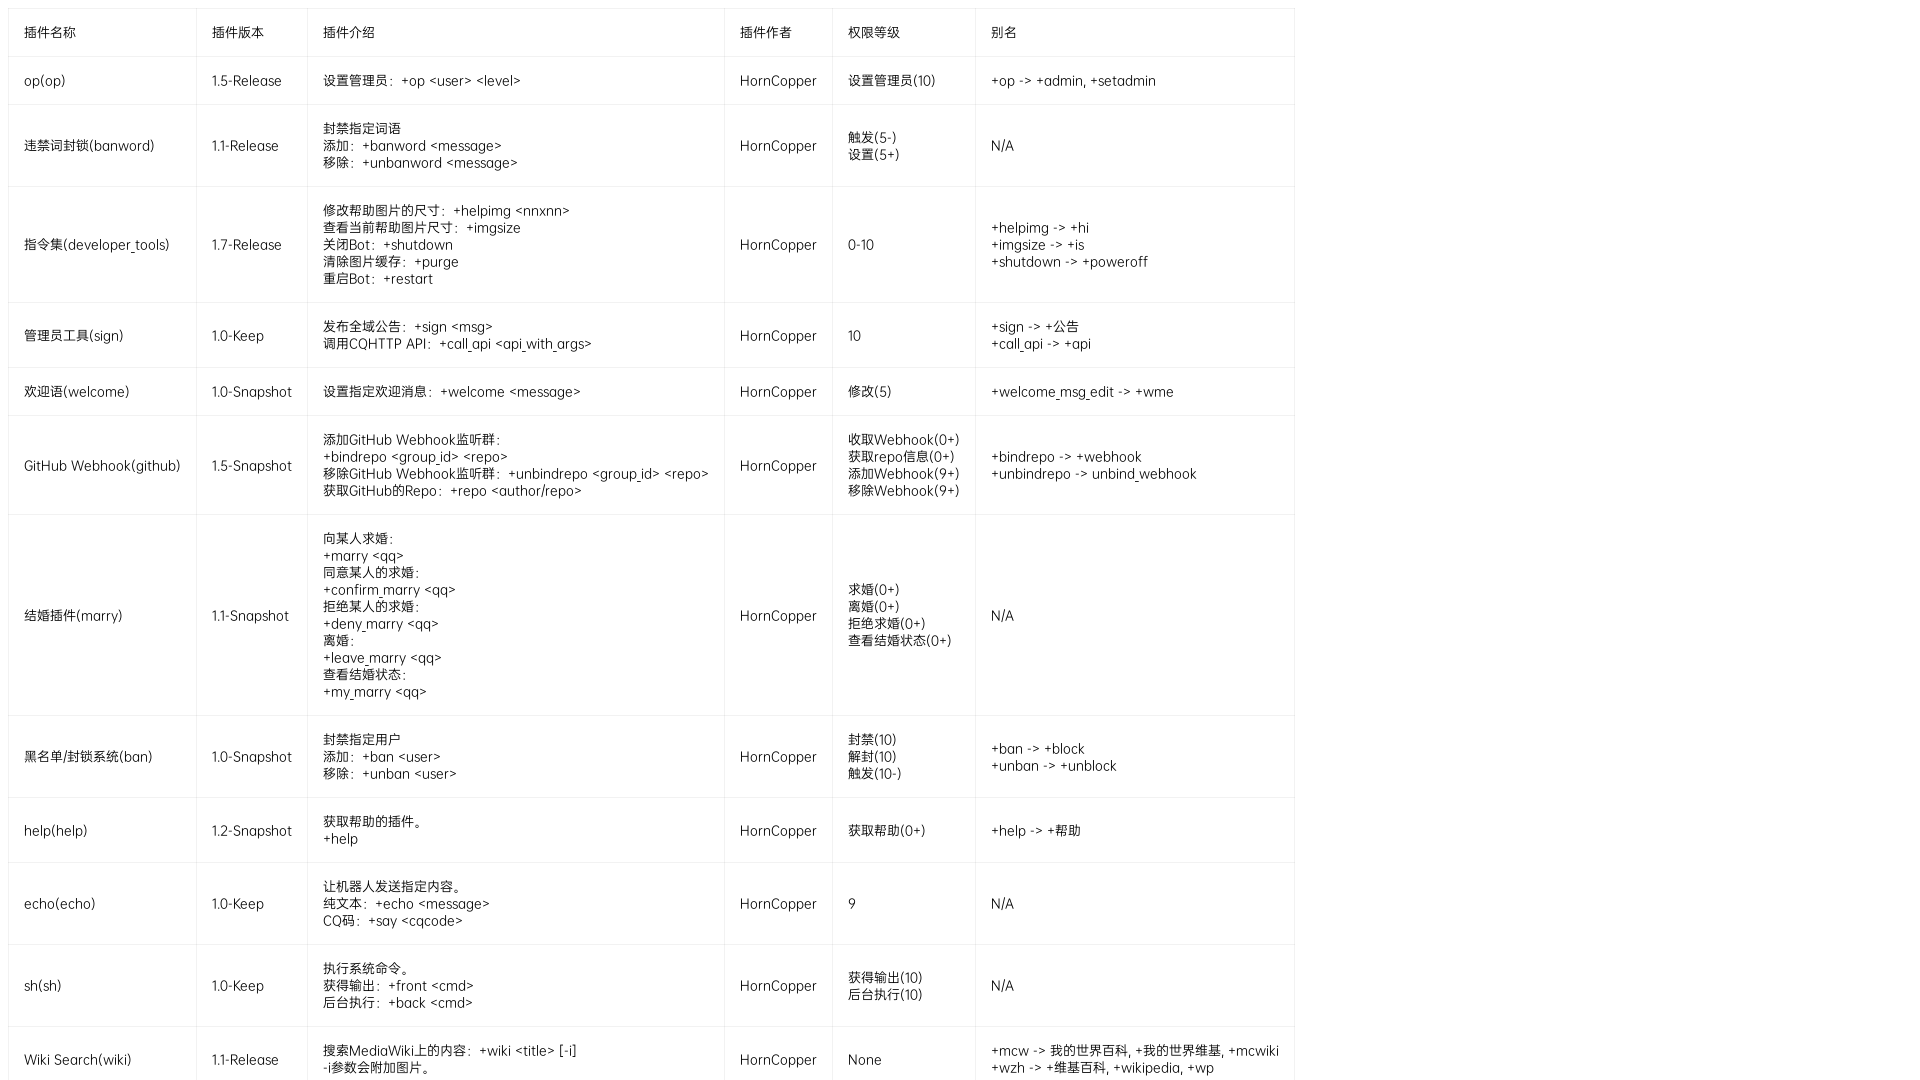
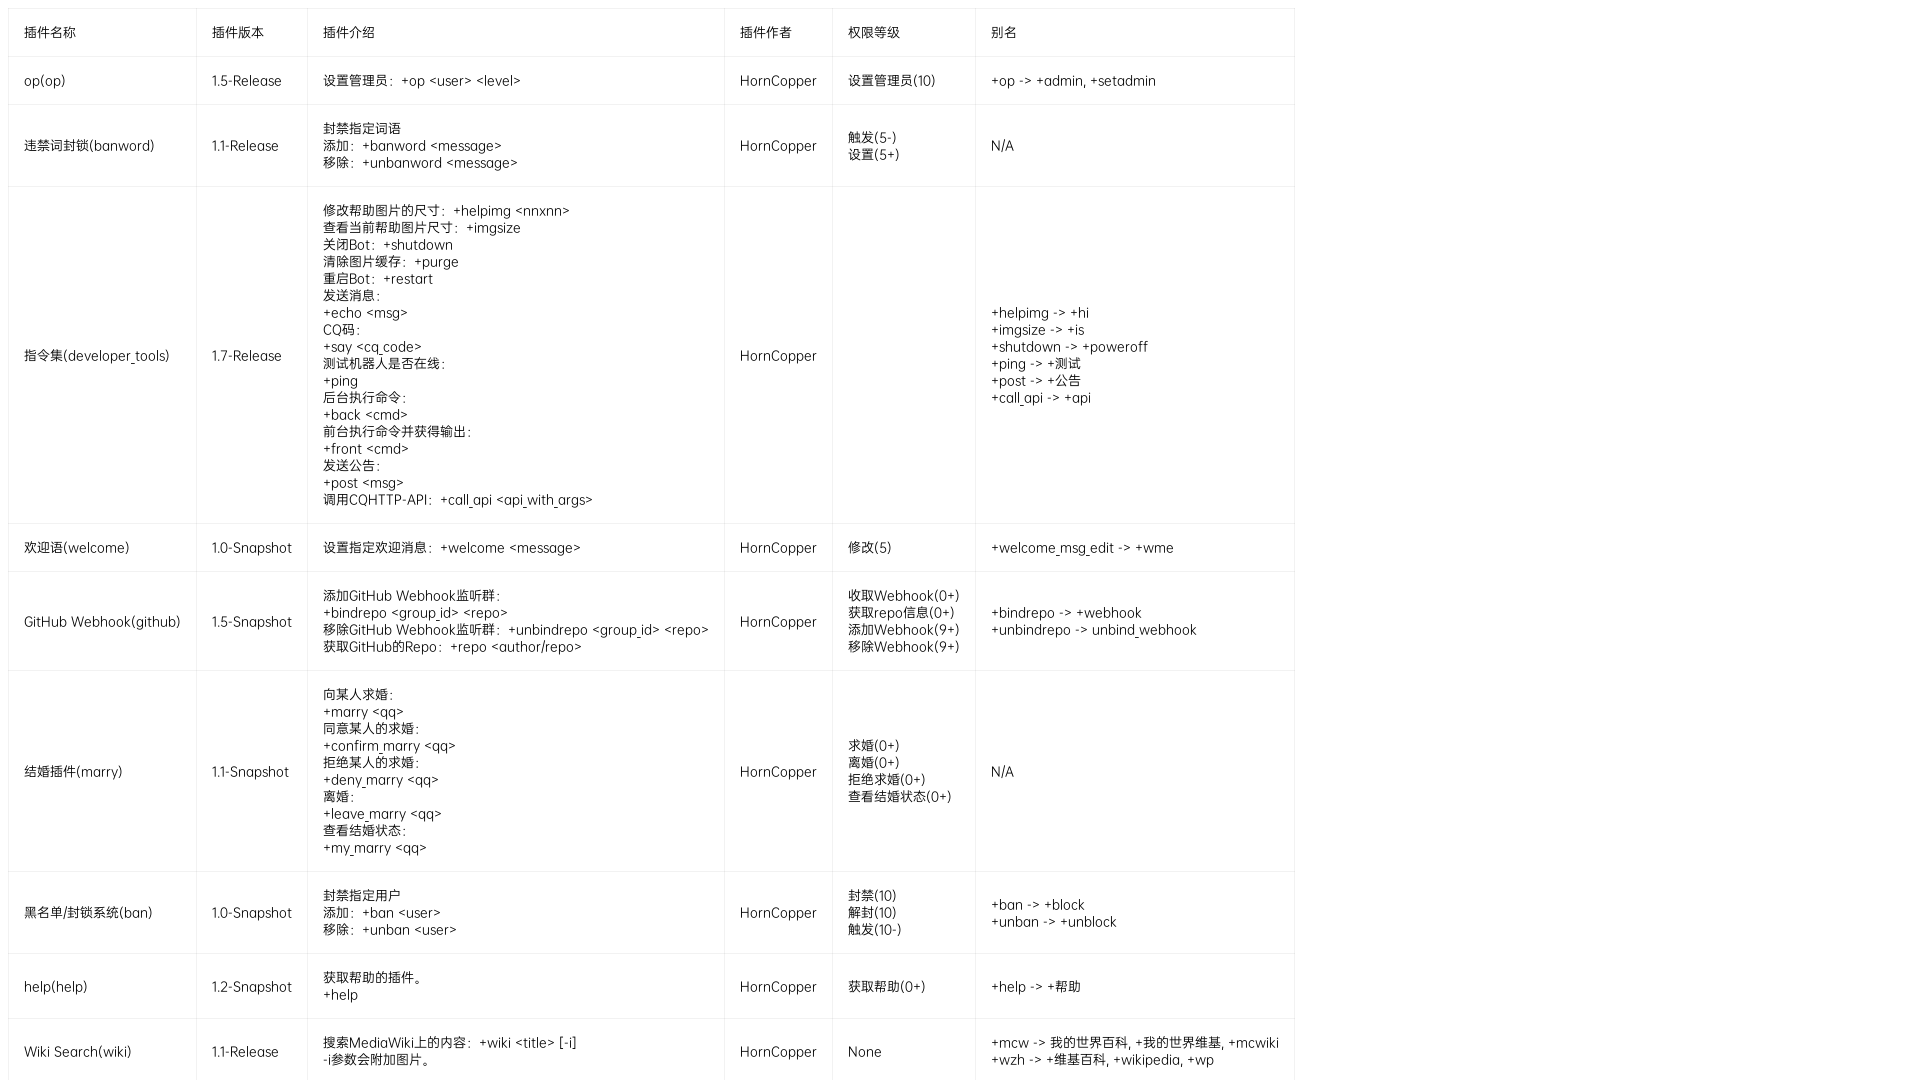
整合了一些插件，移除echo sign sh ping，全部整合至developer_toosl

diff --git a/src/plugins/help/help.html b/src/plugins/help/help.html
@@ -1,21 +1,17 @@
 <div style="font-family:Custom"><table>
 <thead>
-<tr><th>插件名称               </th><th>插件版本    </th><th>插件介绍                                                                                                                                              </th><th>插件作者  </th><th>权限等级                                                        </th><th>别名                                                                           </th></tr>
+<tr><th>插件名称               </th><th>插件版本    </th><th>插件介绍                                                                                                                                                                                                                                                                                                                               </th><th>插件作者  </th><th>权限等级                                                        </th><th>别名                                                                                                  </th></tr>
 </thead>
 <tbody>
-<tr><td>op(op)                 </td><td>1.5-Release </td><td>设置管理员：+op &lt;user&gt; &lt;level&gt;                                                                                                                        </td><td>HornCopper</td><td>设置管理员(10)                                                  </td><td>+op -&gt; +admin, +setadmin                                                       </td></tr>
-<tr><td>违禁词封锁(banword)    </td><td>1.1-Release </td><td>封禁指定词语<br>添加：+banword &lt;message&gt;<br>移除：+unbanword &lt;message&gt;                                                                                      </td><td>HornCopper</td><td>触发(5-)<br>设置(5+)                                               </td><td>N/A                                                                            </td></tr>
-<tr><td>指令集(developer_tools)</td><td>1.7-Release </td><td>修改帮助图片的尺寸：+helpimg &lt;nnxnn&gt;<br>查看当前帮助图片尺寸：+imgsize<br>关闭Bot：+shutdown<br>清除图片缓存：+purge<br>重启Bot：+restart                         </td><td>HornCopper</td><td>0-10                                                            </td><td>+helpimg -&gt; +hi<br>+imgsize -&gt; +is<br>+shutdown -&gt; +poweroff                         </td></tr>
-<tr><td>管理员工具(sign)       </td><td>1.0-Keep    </td><td>发布全域公告：+sign &lt;msg&gt;<br>调用CQHTTP API：+call_api &lt;api_with_args&gt;                                                                                   </td><td>HornCopper</td><td>10                                                              </td><td>+sign -&gt; +公告<br>+call_api -&gt; +api                                               </td></tr>
-<tr><td>欢迎语(welcome)        </td><td>1.0-Snapshot</td><td>设置指定欢迎消息：+welcome &lt;message&gt;                                                                                                                  </td><td>HornCopper</td><td>修改(5)                                                         </td><td>+welcome_msg_edit -&gt; +wme                                                      </td></tr>
-<tr><td>GitHub Webhook(github) </td><td>1.5-Snapshot</td><td>添加GitHub Webhook监听群：<br>+bindrepo &lt;group_id&gt; &lt;repo&gt;<br>移除GitHub Webhook监听群：+unbindrepo &lt;group_id&gt; &lt;repo&gt;<br>获取GitHub的Repo：+repo &lt;author/repo&gt;  </td><td>HornCopper</td><td>收取Webhook(0+)<br>获取repo信息(0+)<br>添加Webhook(9+)<br>移除Webhook(9+)</td><td>+bindrepo -&gt; +webhook<br>+unbindrepo -&gt; unbind_webhook                            </td></tr>
-<tr><td>结婚插件(marry)        </td><td>1.1-Snapshot</td><td>向某人求婚：<br>+marry &lt;qq&gt;<br>同意某人的求婚：<br>+confirm_marry &lt;qq&gt;<br>拒绝某人的求婚：<br>+deny_marry &lt;qq&gt;<br>离婚：<br>+leave_marry &lt;qq&gt;<br>查看结婚状态：<br>+my_marry &lt;qq&gt;</td><td>HornCopper</td><td>求婚(0+)<br>离婚(0+)<br>拒绝求婚(0+)<br>查看结婚状态(0+)                 </td><td>N/A                                                                            </td></tr>
-<tr><td>黑名单/封锁系统(ban)   </td><td>1.0-Snapshot</td><td>封禁指定用户<br>添加：+ban &lt;user&gt;<br>移除：+unban &lt;user&gt;                                                                                                    </td><td>HornCopper</td><td>封禁(10)<br>解封(10)<br>触发(10-)                                     </td><td>+ban -&gt; +block<br>+unban -&gt; +unblock                                              </td></tr>
-<tr><td>help(help)             </td><td>1.2-Snapshot</td><td>获取帮助的插件。<br>+help                                                                                                                                </td><td>HornCopper</td><td>获取帮助(0+)                                                    </td><td>+help -&gt; +帮助                                                                 </td></tr>
-<tr><td>echo(echo)             </td><td>1.0-Keep    </td><td>让机器人发送指定内容。<br>纯文本：+echo &lt;message&gt;<br>CQ码：+say &lt;cqcode&gt;                                                                                    </td><td>HornCopper</td><td>9                                                               </td><td>N/A                                                                            </td></tr>
-<tr><td>sh(sh)                 </td><td>1.0-Keep    </td><td>执行系统命令。<br>获得输出：+front &lt;cmd&gt;<br>后台执行：+back &lt;cmd&gt;                                                                                           </td><td>HornCopper</td><td>获得输出(10)<br>后台执行(10)                                       </td><td>N/A                                                                            </td></tr>
-<tr><td>Wiki Search(wiki)      </td><td>1.1-Release </td><td>搜索MediaWiki上的内容：+wiki &lt;title&gt; [-i]<br>-i参数会附加图片。                                                                                          </td><td>HornCopper</td><td>None                                                            </td><td>+mcw -&gt; 我的世界百科, +我的世界维基, +mcwiki<br>+wzh -&gt; +维基百科, +wikipedia, +wp</td></tr>
-<tr><td>ping(ping)             </td><td>1.0-Keep    </td><td>测试机器人是否在线：<br>+ping                                                                                                                            </td><td>HornCopper</td><td>时间(0+)<br>占用(1+)                                               </td><td>+ping -&gt; +测试                                                                 </td></tr>
+<tr><td>op(op)                 </td><td>1.5-Release </td><td>设置管理员：+op &lt;user&gt; &lt;level&gt;                                                                                                                                                                                                                                                                                                         </td><td>HornCopper</td><td>设置管理员(10)                                                  </td><td>+op -&gt; +admin, +setadmin                                                                              </td></tr>
+<tr><td>违禁词封锁(banword)    </td><td>1.1-Release </td><td>封禁指定词语<br>添加：+banword &lt;message&gt;<br>移除：+unbanword &lt;message&gt;                                                                                                                                                                                                                                                                       </td><td>HornCopper</td><td>触发(5-)<br>设置(5+)                                               </td><td>N/A                                                                                                   </td></tr>
+<tr><td>指令集(developer_tools)</td><td>1.7-Release </td><td>修改帮助图片的尺寸：+helpimg &lt;nnxnn&gt;<br>查看当前帮助图片尺寸：+imgsize<br>关闭Bot：+shutdown<br>清除图片缓存：+purge<br>重启Bot：+restart<br>发送消息：<br>+echo &lt;msg&gt;<br>CQ码：<br>+say &lt;cq_code&gt;<br>测试机器人是否在线：<br>+ping<br>后台执行命令：<br>+back &lt;cmd&gt;<br>前台执行命令并获得输出：<br>+front &lt;cmd&gt;<br>发送公告：<br>+post &lt;msg&gt;<br>调用CQHTTP-API：+call_api &lt;api_with_args&gt;</td><td>HornCopper</td><td>                                                                </td><td>+helpimg -&gt; +hi<br>+imgsize -&gt; +is<br>+shutdown -&gt; +poweroff<br>+ping -&gt; +测试<br>+post -&gt; +公告<br>+call_api -&gt; +api</td></tr>
+<tr><td>欢迎语(welcome)        </td><td>1.0-Snapshot</td><td>设置指定欢迎消息：+welcome &lt;message&gt;                                                                                                                                                                                                                                                                                                   </td><td>HornCopper</td><td>修改(5)                                                         </td><td>+welcome_msg_edit -&gt; +wme                                                                             </td></tr>
+<tr><td>GitHub Webhook(github) </td><td>1.5-Snapshot</td><td>添加GitHub Webhook监听群：<br>+bindrepo &lt;group_id&gt; &lt;repo&gt;<br>移除GitHub Webhook监听群：+unbindrepo &lt;group_id&gt; &lt;repo&gt;<br>获取GitHub的Repo：+repo &lt;author/repo&gt;                                                                                                                                                                                   </td><td>HornCopper</td><td>收取Webhook(0+)<br>获取repo信息(0+)<br>添加Webhook(9+)<br>移除Webhook(9+)</td><td>+bindrepo -&gt; +webhook<br>+unbindrepo -&gt; unbind_webhook                                                   </td></tr>
+<tr><td>结婚插件(marry)        </td><td>1.1-Snapshot</td><td>向某人求婚：<br>+marry &lt;qq&gt;<br>同意某人的求婚：<br>+confirm_marry &lt;qq&gt;<br>拒绝某人的求婚：<br>+deny_marry &lt;qq&gt;<br>离婚：<br>+leave_marry &lt;qq&gt;<br>查看结婚状态：<br>+my_marry &lt;qq&gt;                                                                                                                                                                                 </td><td>HornCopper</td><td>求婚(0+)<br>离婚(0+)<br>拒绝求婚(0+)<br>查看结婚状态(0+)                 </td><td>N/A                                                                                                   </td></tr>
+<tr><td>黑名单/封锁系统(ban)   </td><td>1.0-Snapshot</td><td>封禁指定用户<br>添加：+ban &lt;user&gt;<br>移除：+unban &lt;user&gt;                                                                                                                                                                                                                                                                                     </td><td>HornCopper</td><td>封禁(10)<br>解封(10)<br>触发(10-)                                     </td><td>+ban -&gt; +block<br>+unban -&gt; +unblock                                                                     </td></tr>
+<tr><td>help(help)             </td><td>1.2-Snapshot</td><td>获取帮助的插件。<br>+help                                                                                                                                                                                                                                                                                                                 </td><td>HornCopper</td><td>获取帮助(0+)                                                    </td><td>+help -&gt; +帮助                                                                                        </td></tr>
+<tr><td>Wiki Search(wiki)      </td><td>1.1-Release </td><td>搜索MediaWiki上的内容：+wiki &lt;title&gt; [-i]<br>-i参数会附加图片。                                                                                                                                                                                                                                                                           </td><td>HornCopper</td><td>None                                                            </td><td>+mcw -&gt; 我的世界百科, +我的世界维基, +mcwiki<br>+wzh -&gt; +维基百科, +wikipedia, +wp                       </td></tr>
 </tbody>
 </table></div>
 <style>

diff --git a/src/plugins/developer_tools/__init__.py b/src/plugins/developer_tools/__init__.py
@@ -1,21 +1,17 @@
-import os
-import sys
-
+import os, sys, psutil, nonebot
 from nonebot import on_command
 from nonebot.adapters import Message
-from nonebot.adapters.onebot.v11 import Event, Bot
 from nonebot.params import CommandArg
-
+from typing import List
 from .example import status
-
-import nonebot
 TOOLS = nonebot.get_driver().config.tools_path
 sys.path.append(str(TOOLS))
 from permission import checker, error
 from file import read, write
 from config import Config
-
-status
+from http_ import http
+from functools import reduce
+from nonebot.adapters.onebot.v11 import Message, MessageSegment, unescape, Event, Bot
 
 helpimg = on_command("helpimg", aliases={"hi"}, priority=5)
 
@@ -76,3 +72,66 @@ async def _(event: Event):
             await restart.finish(error(5))
         await  restart.send("好啦，开始重启，整个过程需要些许时间，还请等我一下哦~")
         cache.write("status=\"OK\"")
+
+echo = on_command("echo",priority=5)
+@echo.handle()
+async def echo_(event: Event, args: Message = CommandArg()):
+    if checker(str(event.user_id),9) == False:
+        await echo.finish(error(9))
+    await echo.finish(args)
+say = on_command("say",priority=5)
+@say.handle()
+async def say_(event: Event, args: Message = CommandArg()): 
+    def _unescape(message: Message, segment: MessageSegment):
+        if segment.is_text():
+            return message.append(unescape(str(segment)))
+        return message.append(segment)
+    if checker(str(event.user_id),9) == False:
+        await say.finish(error(9))
+    message = reduce(_unescape, args, Message())
+    await say.finish(message)
+ping = on_command("ping", aliases={"测试"}, priority=5)
+@ping.handle()
+async def _(event: Event):
+    if block(str(event.user_id)):
+        return
+    if checker(str(event.user_id), 1) == False:
+        times = str("现在是" + time.strftime("%Y-%m-%d %H:%M:%S", time.localtime()) + f"\n当前版本v{Config.version}(Nonebot 2.0.0b2)")
+        await ping.finish(times)
+    def per_cpu_status() -> List[float]:
+        return psutil.cpu_percent(interval=1, percpu=True)
+    def memory_status() -> float:
+        return psutil.virtual_memory().percent
+    times = str("现在是" + time.strftime("%Y-%m-%d %H:%M:%S", time.localtime()) + f"\n当前版本v{Config.version}(Nonebot 2.0.0b2)")
+    msg = f"来啦！\n系统信息如下：\nCPU占用：{str(per_cpu_status()[0])}%\n内存占用：{str(memory_status())}%\n"
+    await ping.finish(msg + times)
+back = on_command("back", priority=5)
+@back.handle()
+async def back_(event: Event, args: Message = CommandArg()):
+    if checker(str(event.user_id), 10) == False:
+        await back.finish(error(10))
+    os.system(args.extract_plain_text())
+    await back.finish("好啦，执行完毕！")
+front = on_command("front",priority=5)
+@front.handle()
+async def front_(event: Event, args: Message = CommandArg()):
+    if checker(str(event.user_id),10) == False:
+        await front.finish(error(10))
+    msg = os.popen(args.extract_plain_text()).read()
+    await front.finish(f"{msg}")
+post = on_command("post", aliases={"公告"}, priority=5)
+@post.handle()
+async def _(bot: Bot, event: Event, args: Message = CommandArg()):
+    if checker(str(event.user_id), 10) == False:
+        post.finish(error(10))
+    cmd = args.extract_plain_text()
+    groups = await bot.call_api("get_group_list")
+    for i in groups:
+        await bot.call_api("send_group_msg",group_id=i["group_id"],message=f"[开发者全域公告]{cmd}")
+call_api = on_command("call_api",aliases={"api"},priority=5)
+@call_api.handle()
+async def _(event: Event, args: Message = CommandArg()):
+    if checker(str(event.user_id),10) == False:
+        await call_api.finish(error(10))
+    cmd = args.extract_plain_text()
+    await http.get_url(f"{Config.cqhttp}{cmd}")

diff --git a/src/plugins/github/__init__.py b/src/plugins/github/__init__.py
@@ -34,7 +34,7 @@ async def _(event: Event, args: Message = CommandArg()):
     reponame = args.extract_plain_text()
     status_code = await http.get_status("https://github.com/"+reponame)
     if status_code != 200 and status_code != 301 and status_code != 302:
-        await repo.finish("仓库获取失败，请检查后重试哦~")
+        await repo.finish(f"仓库获取失败，请检查后重试哦~\n错误码：{status_code}")
     else:
         img = ms.image("https://opengraph.githubassets.com/c9f4179f4d560950b2355c82aa2b7750bffd945744f9b8ea3f93cc24779745a0/"+reponame)
         await repo.finish(img)
